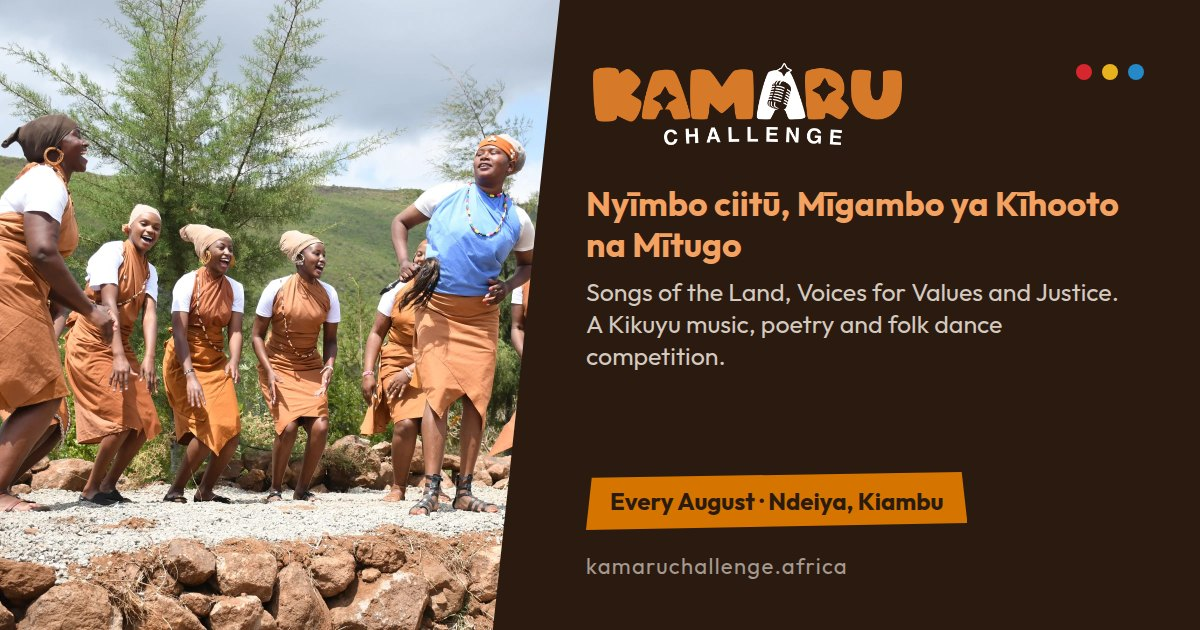
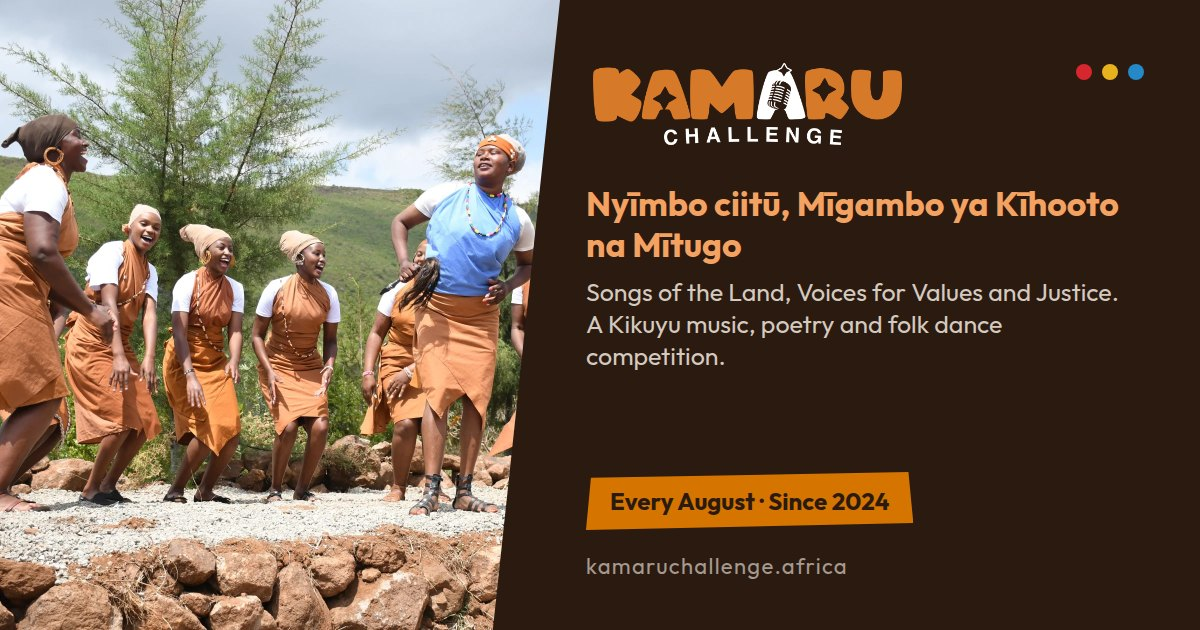
Editions come from seasons; footer credit; Kikuyu greeting
- Remove fixed 'Ndeiya Edition' titles; Ndeiya stays as the Challenge's home and venue
- Hero label shows the active season's name (the edition admins set each season)
- Seasons: rename button and edition hint in the season name field
- Footer bottom line centred; larger CVC icon
- Share image tag 'Every August · Since 2024'; titles/descriptions say Kenya, born in Ndeiya
- Dashboard greeting 'Wī mūhoro!'; clearer drawn macron on ī

Changed region(s): [[0.6167, 0.7238, 0.8325, 0.8444]]

diff --git a/kamaru-frontend/public/index.html b/kamaru-frontend/public/index.html
@@ -14,8 +14,8 @@
     <link href="https://fonts.googleapis.com/css2?family=Slackey&family=Outfit:wght@300..800&display=swap" rel="stylesheet" />
 
     <!-- Primary SEO (each page updates title, description and canonical at runtime: src/utils/seo.js) -->
-    <title>Kamaru Challenge | Kikuyu Music, Poetry & Folk Dance Competition in Ndeiya, Kenya</title>
-    <meta name="description" content="Kamaru Challenge is a free annual Kikuyu music, poetry (marebeta) and folk dance competition held every August in Ndeiya, Kiambu, Kenya. Nyīmbo ciitū, songs for values and justice." />
+    <title>Kamaru Challenge | Kikuyu Music, Poetry & Folk Dance Competition in Kenya</title>
+    <meta name="description" content="Kamaru Challenge is a free annual Kikuyu music, poetry (marebeta) and folk dance competition held every August in Kenya, born in Ndeiya, Kiambu. Nyīmbo ciitū, songs for values and justice." />
     <meta name="keywords" content="Kamaru Challenge, Kamaru Challenge Ndeiya, Kikuyu music competition, Kikuyu songs, Gikuyu songs, Agikuyu culture, Kikuyu culture, Kikuyu folk songs, Kikuyu folk dances, Kikuyu poetry, Kikuyu language, Gĩkũyũ, Mugikuyu, Nyīmbo ciitū, nyimbo ciitu, nyimbo cia Gikuyu, Nyīmbo cīa Ūndūire cīa Mūgīkūyū, nyimbo cia unduire cia mugikuyu, Nyīmbo cīa Gūītungira, nyimbo cia guitungira, Marebeta, Mīgambo ya Kīhooto na Mītugo, Mītugo, mitugo, Kīhooto, kihooto, Kūhurutira Mwaki, Itemi Riitū, Irīma-inī kwa Wanjiku, Rediscovery Garden, Ndeiya, Nguirubi, Karera, Limuru, Kiambu County, music competition Kenya, talent competition Kenya, cultural festival Kenya, African values, African culture, traditional music Kenya, spoken word Kenya, original songs competition" />
     <meta name="author" content="Kamaru Challenge" />
     <meta name="robots" content="index, follow, max-image-preview:large" />
@@ -27,7 +27,7 @@
     <meta property="og:locale" content="en_KE" />
     <meta property="og:url" content="https://kamaruchallenge.africa/" />
     <meta property="og:title" content="Kamaru Challenge | Kikuyu Music, Poetry & Folk Dance Competition" />
-    <meta property="og:description" content="A free annual competition every August in Ndeiya, Kiambu. Poetry (marebeta), original songs and Kikuyu folk songs and dances that celebrate our timeless values." />
+    <meta property="og:description" content="A free annual competition every August in Kenya, born in Ndeiya, Kiambu. Poetry (marebeta), original songs and Kikuyu folk songs and dances that celebrate our timeless values." />
     <meta property="og:image" content="https://kamaruchallenge.africa/og-image.jpg" />
     <meta property="og:image:width" content="1200" />
     <meta property="og:image:height" content="630" />
@@ -36,7 +36,7 @@
     <!-- X / Twitter -->
     <meta name="twitter:card" content="summary_large_image" />
     <meta name="twitter:title" content="Kamaru Challenge | Kikuyu Music, Poetry & Folk Dance Competition" />
-    <meta name="twitter:description" content="A free annual competition every August in Ndeiya, Kiambu, celebrating Kikuyu songs, poetry and dance." />
+    <meta name="twitter:description" content="A free annual competition every August in Kenya, celebrating Kikuyu songs, poetry and dance." />
     <meta name="twitter:image" content="https://kamaruchallenge.africa/og-image.jpg" />
 
     <!-- Favicon and icons -->
@@ -55,11 +55,11 @@
           "@type": "Organization",
           "@id": "https://kamaruchallenge.africa/#organization",
           "name": "Kamaru Challenge",
-          "alternateName": ["Kamaru Challenge – Ndeiya Edition", "Nyīmbo Ciitū"],
+          "alternateName": ["Nyīmbo Ciitū"],
           "url": "https://kamaruchallenge.africa/",
           "logo": "https://kamaruchallenge.africa/brand/logo.png",
           "image": "https://kamaruchallenge.africa/og-image.jpg",
-          "description": "A free annual community competition in Ndeiya, Kiambu, Kenya, where poetry, original songs and Kikuyu folk songs and dances celebrate timeless values.",
+          "description": "A free annual community competition in Kenya, born in Ndeiya, Kiambu, where poetry, original songs and Kikuyu folk songs and dances celebrate timeless values.",
           "email": "info@kamaruchallenge.africa",
           "telephone": ["+254722705773", "+254724721870"],
           "foundingDate": "2024",
@@ -93,7 +93,7 @@
         {
           "@type": "Event",
           "@id": "https://kamaruchallenge.africa/#event-2026",
-          "name": "Kamaru Challenge – Ndeiya Edition 2026",
+          "name": "Kamaru Challenge 2026",
           "description": "Contestants perform poetry (marebeta), original songs (nyīmbo cīa gūītungira) and Kikuyu folk songs and dances (nyīmbo cīa ūndūire cīa Mūgīkūyū) in the Kikuyu language. Three winners in every category.",
           "startDate": "2026-08-15T09:00:00+03:00",
           "endDate": "2026-08-15T18:00:00+03:00",
@@ -133,7 +133,7 @@
     <noscript>
         <h1>Kamaru Challenge: Kikuyu music, poetry and folk dance competition</h1>
         <p lang="ki">Nyīmbo ciitū, Mīgambo ya Kīhooto na Mītugo.</p>
-        <p>Songs of the Land, Voices for Values and Justice. A free annual competition every August in Ndeiya, Kiambu County, Kenya: Marebeta (poetry and spoken word), Nyīmbo cīa Gūītungira (original songs) and Nyīmbo cīa Ūndūire cīa Mūgīkūyū (folk songs and dances), performed in the Kikuyu language.</p>
+        <p>Songs of the Land, Voices for Values and Justice. A free annual competition every August in Kenya, born in Ndeiya, Kiambu County: Marebeta (poetry and spoken word), Nyīmbo cīa Gūītungira (original songs) and Nyīmbo cīa Ūndūire cīa Mūgīkūyū (folk songs and dances), performed in the Kikuyu language.</p>
         <p>
             <a href="/about_us">About us</a> ·
             <a href="/register/participant">The Challenge</a> ·

diff --git a/kamaru-frontend/src/components/ManageSeasons.js b/kamaru-frontend/src/components/ManageSeasons.js
@@ -1,7 +1,7 @@
 import React, { useCallback, useEffect, useState } from "react";
 import { motion } from "framer-motion";
 import { toast } from "react-toastify";
-import { FaPlus, FaDoorOpen, FaDoorClosed, FaStar, FaClock } from "react-icons/fa";
+import { FaPlus, FaDoorOpen, FaDoorClosed, FaStar, FaClock, FaPen } from "react-icons/fa";
 import { fetchSeasons, createSeason, updateSeason } from "../api";
 import { PageHeader, Modal, Field, EmptyState, Spinner } from "./ui";
 
@@ -72,6 +72,13 @@ const ManageSeasons = () => {
     patch(season, { registration_open: open }, open ? `Registration for ${season.name} is now open.` : `Registration for ${season.name} is now closed.`);
   };
 
+  // The name carries the edition (e.g. "Season 3 · Ndeiya Edition") and is shown on the public site
+  const rename = (season) => {
+    const name = window.prompt("Season name (include the edition, e.g. “Season 4 · Ndeiya Edition”):", season.name);
+    if (name === null || !name.trim() || name.trim() === season.name) return;
+    patch(season, { name: name.trim() }, `Renamed to “${name.trim()}”.`);
+  };
+
   const activate = (season) => {
     if (!window.confirm(`Make ${season.name} the active season? Any other active season will be deactivated and its registration closed.`)) return;
     patch(season, { is_active: true }, `${season.name} is now the active season.`);
@@ -122,7 +129,12 @@ const ManageSeasons = () => {
               <div className="grid gap-6 p-6 md:grid-cols-[1fr_auto] md:items-center md:p-8">
                 <div>
                   <p className="text-xs font-semibold uppercase tracking-[0.25em] text-kamaru-light">Active season</p>
-                  <h3 className="mt-1 font-display text-3xl font-bold">{active.name}</h3>
+                  <h3 className="mt-1 flex flex-wrap items-center gap-3 font-display text-3xl font-bold">
+                    {active.name}
+                    <button onClick={() => rename(active)} className="k-icon-btn !text-cream/70 hover:!bg-cream/10 hover:!text-cream" aria-label={`Rename ${active.name}`} title="Rename">
+                      <FaPen className="text-sm" />
+                    </button>
+                  </h3>
                   <div className="mt-3"><StatusBadge season={active} /></div>
                   <div className="mt-5 max-w-sm">
                     <span className="k-label text-cream/80 flex items-center gap-2">
@@ -168,7 +180,14 @@ const ManageSeasons = () => {
               <tbody>
                 {seasons.map((s) => (
                   <tr key={s.id}>
-                    <td className="font-semibold">{s.name}</td>
+                    <td className="font-semibold">
+                      <span className="inline-flex items-center gap-2">
+                        {s.name}
+                        <button onClick={() => rename(s)} disabled={busyId === s.id} className="k-icon-btn h-7 w-7" aria-label={`Rename ${s.name}`} title="Rename">
+                          <FaPen className="text-xs" />
+                        </button>
+                      </span>
+                    </td>
                     <td>{s.year}</td>
                     <td><StatusBadge season={s} /></td>
                     <td className="text-right">
@@ -190,8 +209,8 @@ const ManageSeasons = () => {
 
       <Modal open={creating} onClose={() => setCreating(false)} title="New season" size="sm">
         <form onSubmit={handleCreate} className="space-y-4">
-          <Field label="Season name">
-            <input className="k-input" value={form.name} onChange={(e) => setForm({ ...form, name: e.target.value })} placeholder="Kamaru Challenge – Ndeiya Edition 2027" required />
+          <Field label="Season name" hint="Include the edition (where it is hosted). It appears on the homepage and the Challenge page.">
+            <input className="k-input" value={form.name} onChange={(e) => setForm({ ...form, name: e.target.value })} placeholder="e.g. Season 4 · Ndeiya Edition" required />
           </Field>
           <Field label="Year">
             <input className="k-input" type="number" min="2024" value={form.year} onChange={(e) => setForm({ ...form, year: e.target.value })} required />

diff --git a/kamaru-frontend/src/components/Footer.js b/kamaru-frontend/src/components/Footer.js
@@ -104,18 +104,18 @@ const Footer = () => {
           </div>
         </div>
 
-        <div className="mt-14 flex flex-col items-center gap-1 border-t border-cream/10 pb-20 pt-6 text-center text-sm text-cream/50 md:flex-row md:items-center md:justify-between md:pb-0 md:text-left">
+        <div className="mt-14 flex flex-col items-center gap-4 border-t border-cream/10 pb-20 pt-6 text-center text-sm text-cream/50 md:pb-0">
           {/* Social links for screens without the vertical "Follow us on" rail */}
           <SocialIcons className="mb-4 flex gap-2 md:mb-0 xl:hidden" itemClassName="h-10 w-10 bg-cream/10 text-lg text-cream hover:bg-kamaru hover:text-earth" />
-          <div className="flex flex-col gap-1 text-sm text-cream/50 md:flex-row md:gap-6">
-            <p>© {new Date().getFullYear()} Kamaru Challenge – Ndeiya Edition</p>
+          <div className="flex flex-col items-center justify-center gap-2 text-sm text-cream/50 md:flex-row md:gap-6">
+            <p>© {new Date().getFullYear()} Kamaru Challenge</p>
             <Link to="/terms" className="hover:text-kamaru-light">
               Terms & Conditions
             </Link>
             {/* Developer credit: a normal (followed) link, so it also counts for the studio's SEO */}
-            <p>
+            <p className="flex items-center justify-center gap-1.5">
               Crafted with{" "}
-              <img src={cvcLove} alt="love" className="mx-0.5 inline-block h-[1.25em] w-auto -translate-y-[0.1em] align-middle" />{" "}
+              <img src={cvcLove} alt="love" className="inline-block h-8 w-auto" />{" "}
               by{" "}
               {/* Referrer kept on purpose so the studio's analytics can see visits from this site */}
               {/* eslint-disable-next-line react/jsx-no-target-blank */}

diff --git a/kamaru-frontend/src/pages/HomePage.js b/kamaru-frontend/src/pages/HomePage.js
@@ -17,7 +17,7 @@ import { useSeo } from "../utils/seo";
 //   Hero, 1. why (the indifference), 2. the seven values, 3. our part, 4. the Challenge,
 //   moments (gallery), voices (videos), live numbers, support, contact, other activities
 const HomePage = () => {
-  useSeo({ title: "Kamaru Challenge | Kikuyu Music, Poetry & Folk Dance Competition in Ndeiya, Kenya", description: "Kamaru Challenge is a free annual Kikuyu music, poetry (marebeta) and folk dance competition held every August in Ndeiya, Kiambu, Kenya. Nyīmbo ciitū, songs for values and justice.", path: "/" });
+  useSeo({ title: "Kamaru Challenge | Kikuyu Music, Poetry & Folk Dance Competition in Kenya", description: "Kamaru Challenge is a free annual Kikuyu music, poetry (marebeta) and folk dance competition held every August in Kenya, born in Ndeiya, Kiambu. Nyīmbo ciitū, songs for values and justice.", path: "/" });
   const { gallery, upcoming, past, videos, aboutImage, stats, season, loading } = useHomeData();
 
 

diff --git a/kamaru-frontend/src/components/AdminOverview.js b/kamaru-frontend/src/components/AdminOverview.js
@@ -7,6 +7,7 @@ import { fetchActiveSeason, fetchDashboardStats } from "../api";
 import { ChartCard, BarList, ColumnChart, MonthlyLine, SplitMeter, SERIES } from "./charts";
 import { CATEGORIES } from "../content/story";
 import { PageHeader } from "./ui";
+import { kk } from "./Kikuyu";
 import { useSession } from "./useSession";
 import { PERMS } from "../auth";
 
@@ -35,7 +36,14 @@ const AdminOverview = ({ sections }) => {
 
   return (
     <div>
-      <PageHeader eyebrow="Overview" title="Habari! Here’s where things stand." />
+      <PageHeader
+        eyebrow="Overview"
+        title={
+          <>
+            <span lang="ki">{kk("Wī mūhoro!")}</span> Here’s where things stand.
+          </>
+        }
+      />
 
       {season !== undefined && (
         <motion.div

diff --git a/kamaru-frontend/src/components/home/Hero.js b/kamaru-frontend/src/components/home/Hero.js
@@ -133,7 +133,8 @@ const Hero = ({ gallery = [], upcoming = [], season }) => {
             className="k-quad inline-flex items-center gap-3 bg-cream/10 px-5 py-2 text-xs md:text-sm tracking-[0.2em] uppercase text-kamaru-light"
           >
             <span className="h-2 w-2 rounded-full bg-bead-red animate-pulse" />
-            Ndeiya Edition · Since 2024
+            {/* The edition comes from the active season's name (set by admins each season) */}
+            {season?.name || "Every August · Since 2024"}
           </motion.p>
 
           <h1 className="mt-6 font-display font-black leading-[0.9] tracking-tight">

diff --git a/kamaru-frontend/src/pages/ParticipantsRegistrationPage.js b/kamaru-frontend/src/pages/ParticipantsRegistrationPage.js
@@ -56,7 +56,7 @@ const ParticipantsRegistrationPage = () => {
     <div className="min-h-screen bg-cream">
       <PageHero
         crumb="The Challenge"
-        eyebrow={season?.name || "Kamaru Challenge – Ndeiya Edition"}
+        eyebrow={season?.name || "Kamaru Challenge"}
         title="Take the Kamaru stage"
         intro="An annual competition for the Ndeiya community to showcase its talent in the Kikuyu language, promoting timeless values and joyful, positive living."
       />

diff --git a/kamaru-frontend/src/pages/VideosPage.js b/kamaru-frontend/src/pages/VideosPage.js
@@ -32,7 +32,7 @@ const VideosPage = () => {
         crumb="Videos"
         eyebrow="On stage"
         title="Hear the voices of Nyīmbo Ciitū"
-        intro="Inspiring performances, musical talent and cultural showcases from past Kamaru Challenge – Ndeiya Edition events."
+        intro="Inspiring performances, musical talent and cultural showcases from past Kamaru Challenge events."
       />
 
       <div className="container mx-auto px-5 md:px-8 py-14">

diff --git a/kamaru-frontend/src/index.css b/kamaru-frontend/src/index.css
@@ -186,7 +186,7 @@
 .kk-mac::after {
   content: ""; position: absolute; height: 0.1em; background: currentColor; border-radius: 0.03em;
 }
-.kk-i::after { left: 0.02em; right: 0.02em; bottom: 0.71em; }
+.kk-i::after { left: -0.01em; right: -0.01em; bottom: 0.8em; }
 .kk-u::after { left: 0.1em; right: 0.12em; bottom: 0.82em; }
 .kk-I::after { left: 0.04em; right: 0.06em; bottom: 0.97em; }
 .kk-U::after { left: 0.12em; right: 0.12em; bottom: 0.99em; }

diff --git a/kamaru-frontend/src/content/story.js b/kamaru-frontend/src/content/story.js
@@ -7,7 +7,7 @@ export const TAGLINE_ENGLISH = "Songs of the Land, Voices for Values and Justice
 
 // The most recent / current edition. Update each season.
 export const EDITION = {
-  name: "Kamaru Challenge – Ndeiya Edition 2026",
+  name: "Kamaru Challenge 2026",
   year: 2026,
   date: "2026-08-15T09:00:00", // local (EAT) time
   venue: "Rediscovery Garden, Karera, Nguirubi, Ndeiya",
